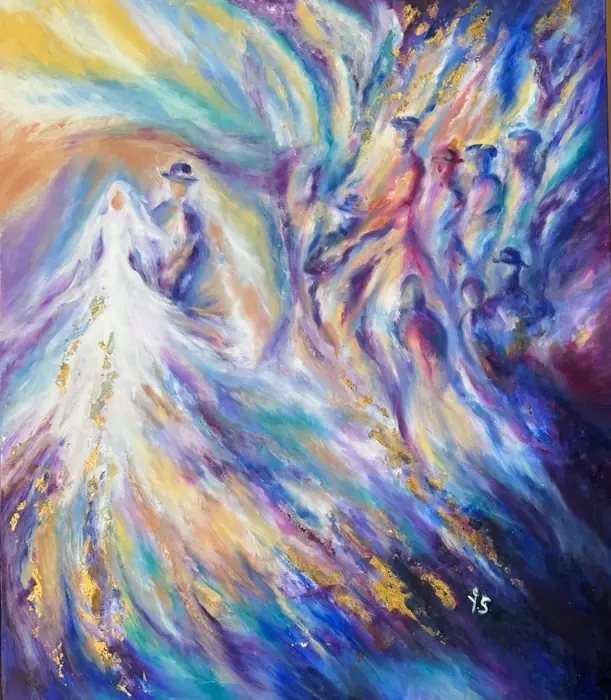
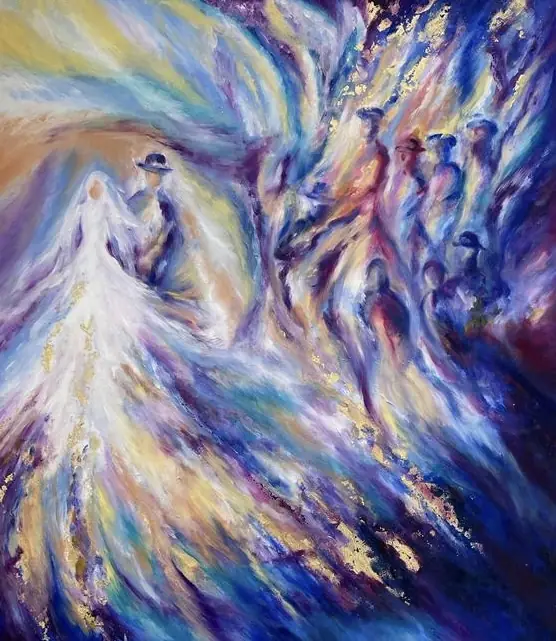
update

diff --git a/index.html b/index.html
@@ -23,7 +23,7 @@
 <meta name="twitter:description" content="Paintings by Yehudis Jacobs, an artist working in Jerusalem.">
 <meta name="twitter:image" content="https://yehudis.art/assets/img/hero.jpg">
 
-<link rel="icon" href="/assets/img/favicon.png" type="image/png">
+<link rel="icon" href="/favicon.svg" type="image/svg+xml">
 <link rel="apple-touch-icon" href="/apple-touch-icon.png">
 
 <link rel="preload" as="image" href="/assets/img/hero.webp" type="image/webp" fetchpriority="high">
@@ -676,14 +676,18 @@ a { color:inherit; }
 .pp-figure {
   display:flex; align-items:flex-start; justify-content:center;
   overflow:hidden;
-  flex:0 1 auto; max-width:100%;
+  /* A fixed pixel cap, not a percentage: inside an auto-width flex item, a
+     percentage max-width on the image can't resolve during the browser's
+     intrinsic-size pass, so a wide, panoramic canvas (Four Elements, Flowers
+     II) was rendering at its full natural width and shoving the caption
+     onto its own line below. An absolute cap here — for the image's own
+     max-width to resolve against — fixes that regardless of the painting's
+     proportions. */
+  flex:0 1 auto; max-width:min(calc(100vw - 2 * var(--pad-x)), 780px);
 }
 .pp-body { flex:1 1 340px; max-width:440px; }
 .pp-img {
-  /* Capped on both axes now that the figure sizes to the image itself
-     rather than a fixed column — this keeps a very wide canvas from pushing
-     the caption below the fold, while a tall one is still capped by height. */
-  max-width:min(100%, 780px); max-height:82svh; width:auto; height:auto; display:block;
+  max-width:100%; max-height:82svh; width:auto; height:auto; display:block;
   cursor:zoom-in; will-change:transform;
 }
 
@@ -1384,14 +1388,13 @@ a { color:inherit; }
     whatsapp: '972587706991',
     whatsappDisplay: '058-770-6991',
 
-    /* Dial-able form (digits, may start with +) and the form shown on screen. */
+    /* Dial-able form (digits, may start with +) and the form shown on screen.
+       TODO — placeholder: replace with the real phone number. */
     phone: '+972500000000',
     phoneDisplay: '052-000-0000',
 
     /* Pre-filled first line of the WhatsApp message. */
-    whatsappText: 'Hello, I have a question about your work.',
-    phone: '972587706991',
-    phoneDisplay: '058-770-6991'
+    whatsappText: 'Hello, I have a question about your work.'
   };
 
   /* ─────────────────────────────────────────────
@@ -1427,7 +1430,7 @@ a { color:inherit; }
         { img: 'four-elements', title: 'Four Elements', medium: 'Pouring · 60×120 cm',      w: 1600, h: 820 , slug: 'four-elements', desc: '' },
         { img: 'prayer',        title: 'Prayer',        medium: 'Oil on canvas · 70×40 cm', w: 1138, h: 2000 , slug: 'prayer', desc: '' },
         { img: 'splitting-of-the-sea', title: 'The Splitting of the Sea', medium: 'Oil on canvas · 90×60 cm', w: 1966, h: 1325, slug: 'splitting-of-the-sea', desc: '' },
-        { img: 'wedding-i',            title: 'Wedding I',                medium: 'Oil on canvas · 60×70 cm', w: 974,  h: 1116, slug: 'wedding-i', desc: '' },
+        { img: 'wedding-i',            title: 'Wedding I',                medium: 'Oil on canvas · 60×70 cm', w: 556,  h: 641, slug: 'wedding-i', desc: '' },
         { img: 'chuppah-ii',           title: 'Chuppah II',               medium: 'Oil on canvas · 90×60 cm', w: 2000, h: 822,  slug: 'chuppah-ii', desc: '' },
         { img: 'song-of-miriam', title: 'The Song of Miriam', medium: 'Palette knife on canvas', w: 1398, h: 2000, slug: 'song-of-miriam', desc: '' }
       ]
